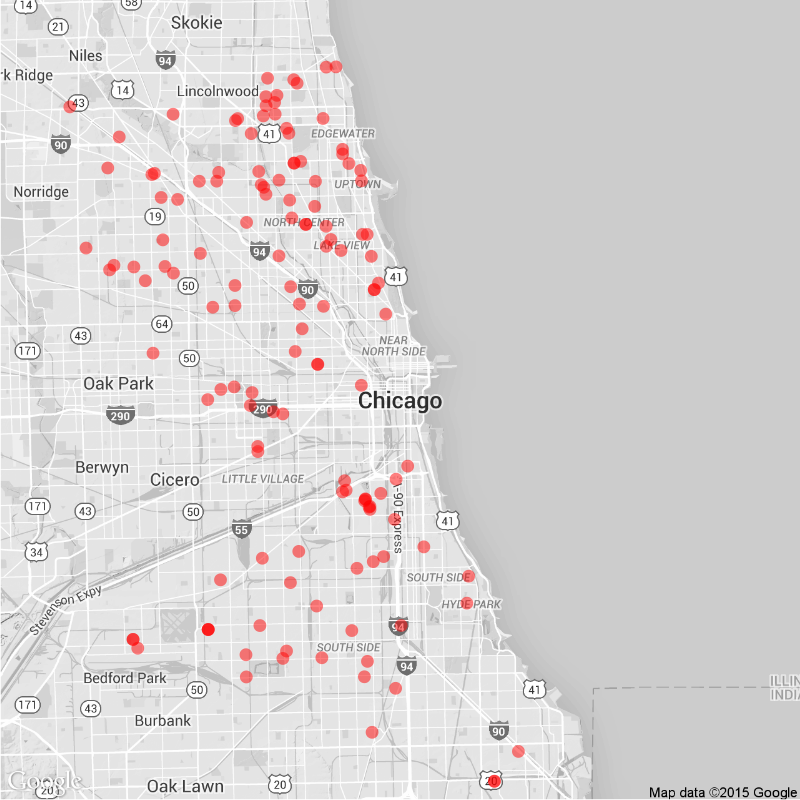
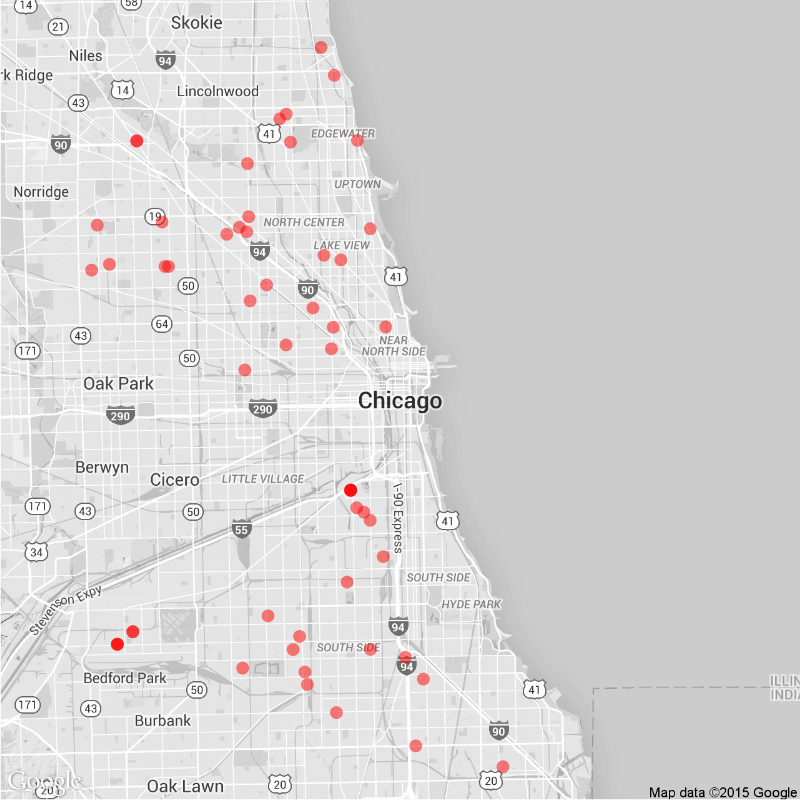
Daily Maps

diff --git a/daily.md b/daily.md
@@ -15,22 +15,22 @@ tags: Chicago NYC weekly daily rats
 
 ### Daily
 
-Yesterday (June 19), there were 140 calls to Chicago's 311 line about rats.
+Yesterday (June 20), there were 56 calls to Chicago's 311 line about rats.
 ![Chicago rat calls to 311 weekly map]({{ site.cityimages }}/daily/Chicago_Rat_Map_Daily.png)
 
 ### Weekly
-Between June 13 and June 19, there were 833 calls to Chicago's 311 line about rats. The average number of weekly calls for this time of year is 809.
+Between June 14 and June 20, there were 825 calls to Chicago's 311 line about rats. The average number of weekly calls for this time of year is 809.
 ![Chicago rat calls to 311 weekly map]({{ site.cityimages }}/daily/Chicago_Rat_Map_Weekly.png)
 ***
 # New York City <a id="nyc"><a>
 
 ### Daily
 
-Yesterday (June 19), there were 0 calls to New York City's 311 line about rats.
+Yesterday (June 20), there were 0 calls to New York City's 311 line about rats.
 ![NYC rat calls to 311 weekly map]({{ site.cityimages }}/daily/NYC_Rat_Map_Daily.png)
 
 ### Weekly
-Between June 13 and June 19, there were 0 calls to New York City's 311 line about rats. The average number of weekly calls for this time of year is 277.
+Between June 14 and June 20, there were 0 calls to New York City's 311 line about rats. The average number of weekly calls for this time of year is 277.
 ![NYC rat calls to 311 weekly map]({{ site.cityimages }}/daily/NYC_Rat_Map_Weekly.png)
 
 Each red dot represents one call about a rat seen in that location. The dots are transparent, so multiple calls from one location will be seen as a solid dot. The usual caveats apply: more calls do not necessarily mean that there are more rats in that location than other parts of the city. A cluster of dots could indicate that one resident is unusually vocal about rodents in his or her neighborhood. Also, more densely populated neighborhoods tend to make more calls to 311.
